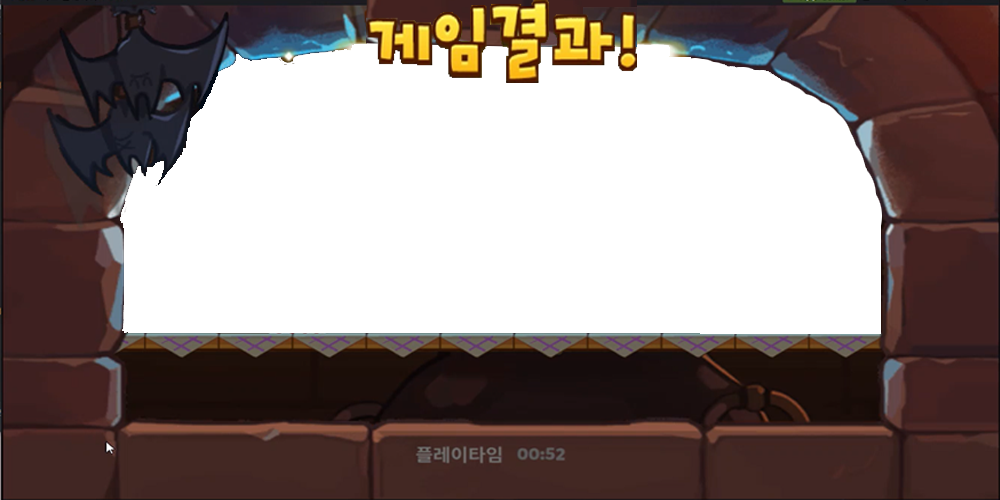
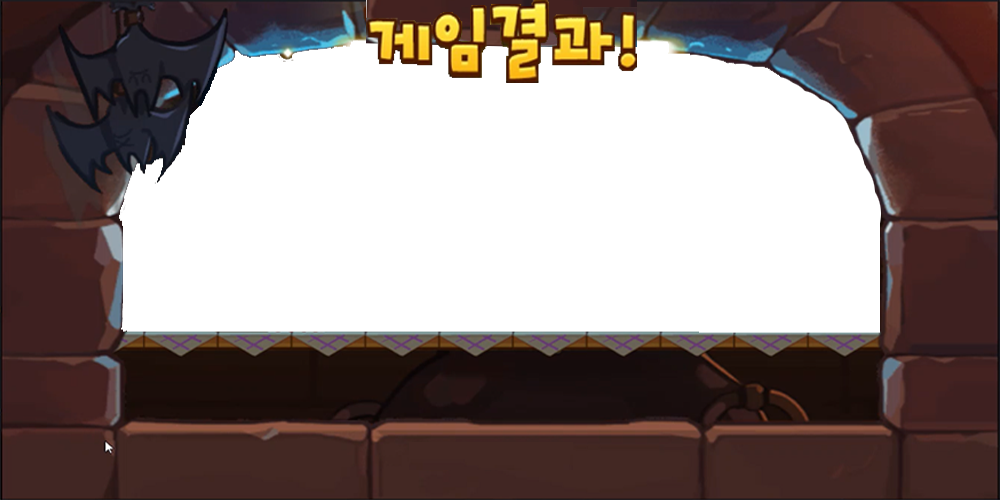
finish scene
print score

diff --git a/life.py b/life.py
@@ -1,5 +1,5 @@
 from pico2d import *
-import turtle as t
+import game_framework
 
 class LIFE:
     bar = None
@@ -8,7 +8,10 @@ class LIFE:
         self.x = 200
         self.y = 438
         self.image_x = 0
+        self.speed = 1
         self.timer = 0
+        self.speed_timer = 0
+        self.speed_parameter = 0
         if LIFE.bar == None:
             LIFE.bar = load_image('resource/UI/life bar2.png')
         if LIFE.life == None:
@@ -18,14 +21,17 @@ class LIFE:
     def update(self):
         self.timer += 1
         if self.timer > 20:
-            self.image_x += 1
+            self.image_x += self.speed
             self.timer = 0
-
+        self.speed_timer += 1
+        if self.speed_timer % 1500 == 0:
+            self.speed_parameter += 1.1
+            self.speed = self.speed + int(self.speed_parameter + 0.5)
 
         pass
 
     def draw(self):
-        self.bar.clip_draw_to_origin(0, 0, 550 - self.image_x, 90, self.x, self.y, 550 - self.image_x, 65)
+        self.bar.clip_draw_to_origin(0, 0, 450 - self.image_x, 90, self.x, self.y, 450 - self.image_x, 65)
         self.life.clip_draw(0, 0, 88, 101, 200, 470 + 10, 50, 55)
 
         pass

diff --git a/scene_finish.py b/scene_finish.py
@@ -3,16 +3,43 @@ import game_framework
 import scene_main
 
 
+black = None
+base = None
+font = None
+
 def enter():
+    global base, black, font
+    show_cursor()
+
+    if base == None:
+        base = load_image('resource/background/finish.png')
+
+    if black == None:
+        black = load_image('resource/background/black.png')
+
+    if font == None:
+        font = load_font('font/Maplestory Bold.ttf', 40)
     pass
 
+
 def exit():
+    global base
+    del base
     pass
 
 def update():
     pass
 
 def draw():
+    global base, black, font
+    clear_canvas()
+    black.clip_draw(0, 0, 1000, 500, 500, 250)
+    base.clip_draw(0, 0, 1000, 500, 500, 250)
+    font.draw(280, 350, '획득 점수', (150, 150, 150))
+    font.draw(275, 300, '%d' % scene_main.cookie.score, (255, 255, 0))
+    font.draw(590, 350, '획득 코인', (150, 150, 150))
+    font.draw(620, 300, '%d' % scene_main.cookie.coin, (255, 255, 0))
+    update_canvas()
     pass
 
 def handle_events():

diff --git a/scene_main.py b/scene_main.py
@@ -6,6 +6,7 @@ import numpy as np
 import cookie_brave
 import cookie_bright
 import scene_robby
+import scene_finish
 import life
 import game_world
 import obstacle_pin_bean
@@ -166,7 +167,10 @@ def update():
             if cookie.crash_num == 1:
                 life_image.image_x += 40
             pass
-    if life_image.image_x > 550:
+        # @@@@@@@@@@@@@@@@@@@@@@@@@@@@@@@@@@@@@@@@
+    if life_image.image_x > 450:
+        scene_robby.bgm.stop()
+        game_framework.push_state(scene_finish)
         pass
 
     for obs in obstacles:
